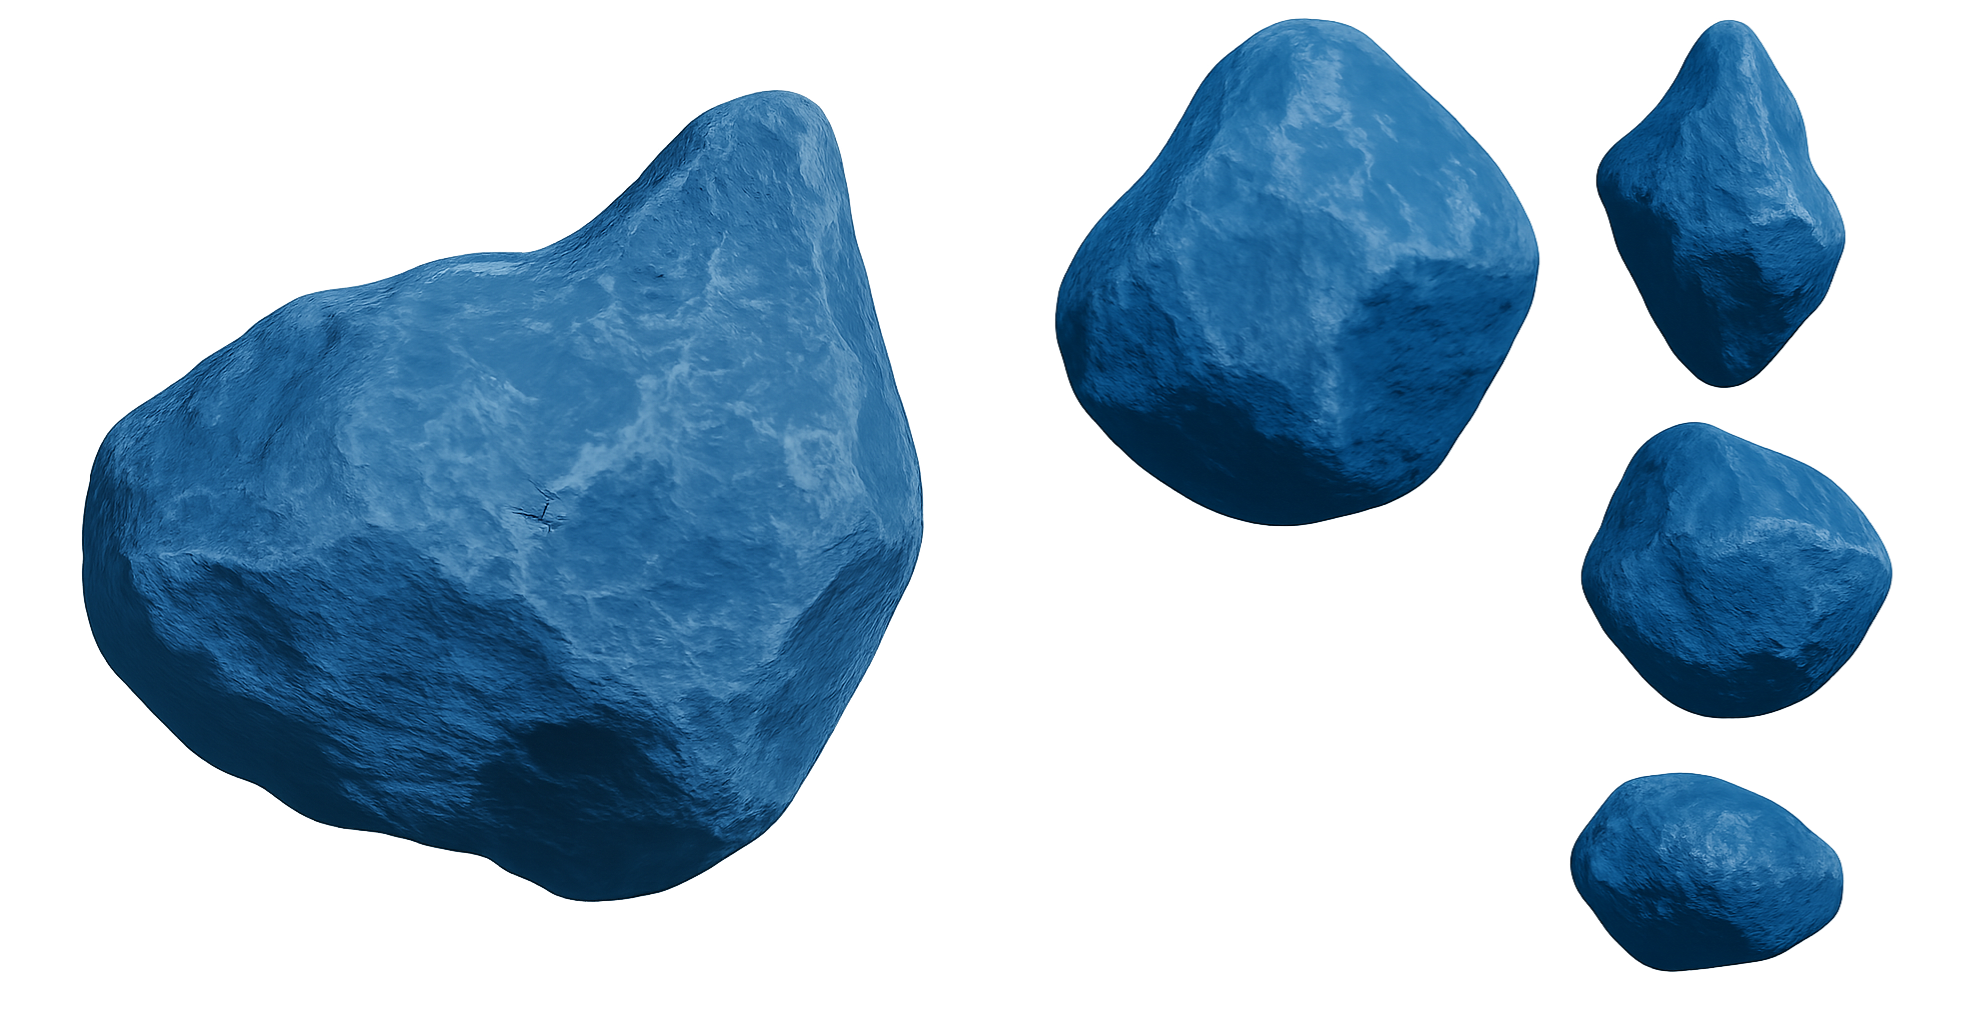
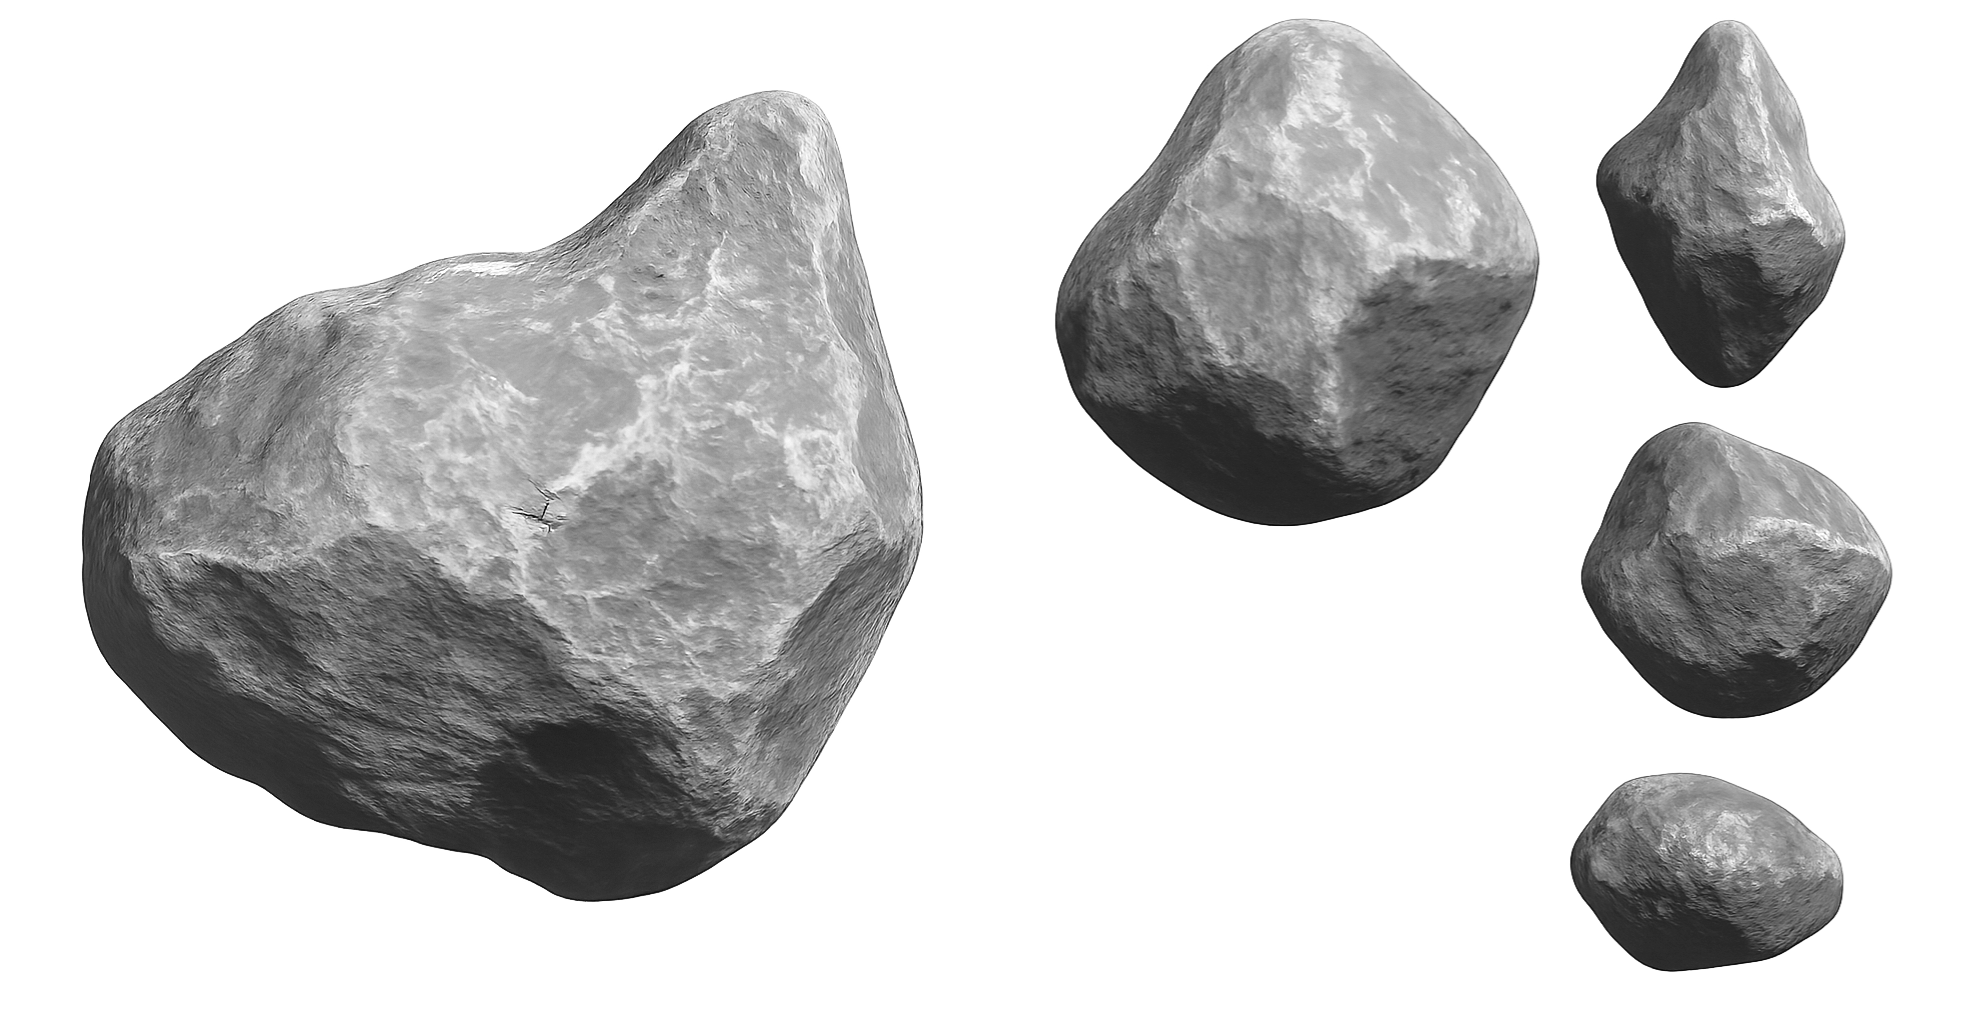
Spatial bodies

diff --git a/src/rendering/unified/UnifiedSceneRendererGL.ts b/src/rendering/unified/UnifiedSceneRendererGL.ts
@@ -272,7 +272,7 @@ export class UnifiedSceneRendererGL {
   render(
     dt: number, // Seconds
     camera: Camera,
-    visibleLights: { soa: LightSOA, indices: Uint16Array, count: number },
+    visibleLights: { soa: LightSOA; indices: Uint16Array; count: number },
     sprites: SpriteRenderRequest[],
     particleSOAs: ParticleSOA[],
     lightningSegments: LightningSegment[],
@@ -321,17 +321,19 @@ export class UnifiedSceneRendererGL {
     gl.bindFramebuffer(gl.FRAMEBUFFER, this.sceneFramebuffer);
     this.planetPass.renderAll();
 
-    // === Render spatial bodies
-    this.spatialBodyPass.render(camera);
-
     // === Step 5: Generate light buffer (offscreen) ===
     const lightTexture = this.lightingPass.generateLightBuffer(visibleLights, camera);
 
-    // === Step 6: Render entities ===
-    gl.bindFramebuffer(gl.FRAMEBUFFER, this.sceneFramebuffer); // Light was rendering to offscreen FB, so we needed to rebind before going to the next
+    // === Step 6: Render spatial bodies (now light-aware) ===
+    // Must occur *after* light buffer generation so they can sample the light map
+    gl.bindFramebuffer(gl.FRAMEBUFFER, this.sceneFramebuffer);
+    this.spatialBodyPass.render(camera, lightTexture);
+
+    // === Step 7: Render entities (blocks, also light-aware) ===
+    gl.bindFramebuffer(gl.FRAMEBUFFER, this.sceneFramebuffer); // Rebind because lights rendered to offscreen FB
     this.entityPass.render(lightTexture, camera);
 
-    // === Step 7: Render batched sprites ===
+    // === Step 8: Render batched sprites ===
     for (const group of this.spriteGroups.values()) group.length = 0;
     this.clearedTextures.length = 0;
 
@@ -368,12 +370,12 @@ export class UnifiedSceneRendererGL {
       this.collisionBoxPass.render(camera);
     }
 
-    // === Step 8: Render particles ===
+    // === Step 9: Render particles ===
     for (const particleSOA of particleSOAs) {
       this.particlePass.renderSOA(particleSOA, camera);
     }
 
-    // === Step 9: Apply ripple/distortion FX (sceneTexture → sceneFramebufferFX)
+    // === Step 10: Apply ripple/distortion FX (sceneTexture → sceneFramebufferFX)
     const activeFx = this.specialFxController.getActiveFx();
     if (activeFx.length > 0) {
       this.specialFxPass.run(this.sceneTexture, activeFx, this.sceneFramebufferFX, this.cameraUBO);
@@ -387,23 +389,23 @@ export class UnifiedSceneRendererGL {
       this.sceneFramebufferFX = tmpFbo;
     }
 
-    // === Step 10: Render world-space FX passes (lightning, trails, etc.) ===
+    // === Step 11: Render world-space FX passes (lightning, trails, etc.) ===
     this.lightningPass.render(lightningSegments, camera);
     this.firePass.renderSOA(fireSOA, dt);
 
-    // === Step 11: Render damage text ===
+    // === Step 12: Render damage text ===
     if (this.playerSettings.isDamageTextEnabled()) {
       this.damageTextPass.renderSOA(damageTextSOA);
     }
 
-    // === Step 12: Apply screen-space post-process effects to default framebuffer ===
+    // === Step 13: Apply screen-space post-process effects to default framebuffer ===
     gl.bindFramebuffer(gl.FRAMEBUFFER, null);
     const effectChain = Array.from(this.postProcessEffects.entries()).map(
       ([effect, params]) => ({ effect, params })
     );
     this.postProcessPass.run(this.sceneTexture, effectChain);
 
-    // === Step 13: Composite additive lighting effects (e.g. halos) over final image ===
+    // === Step 14: Composite additive lighting effects (e.g. halos) over final image ===
     this.lightingPass.compositeLightingOverTarget(null);
   }
 

diff --git a/src/rendering/unified/passes/SpatialBodyPass.ts b/src/rendering/unified/passes/SpatialBodyPass.ts
@@ -35,6 +35,8 @@ export class SpatialBodyPass {
   // Shader uniform locations
   private readonly uAtlasLoc: WebGLUniformLocation | null;
   private readonly uAlphaLoc: WebGLUniformLocation | null;
+  private readonly uLightMapLoc: WebGLUniformLocation | null;
+  private readonly uAmbientLightLoc: WebGLUniformLocation | null;
 
   private instanceCount = 0;
   private dataIndex = 0;
@@ -61,9 +63,11 @@ export class SpatialBodyPass {
       });
     }
 
-    // Cache uniforms
+    // Cache uniforms (now includes lighting)
     this.uAtlasLoc = gl.getUniformLocation(this.program, 'uAtlas');
     this.uAlphaLoc = gl.getUniformLocation(this.program, 'uAlpha');
+    this.uLightMapLoc = gl.getUniformLocation(this.program, 'uLightMap');
+    this.uAmbientLightLoc = gl.getUniformLocation(this.program, 'uAmbientLight');
 
     // Bind the shared camera UBO (same as SpritePass / EntityPass)
     const blockIndex = gl.getUniformBlockIndex(this.program, 'CameraMatrices');
@@ -130,7 +134,7 @@ export class SpatialBodyPass {
     this.dataIndex += FLOATS_PER_INSTANCE;
   }
 
-  render(camera: Camera): void {
+  render(camera: Camera, lightTexture: WebGLTexture): void {
     const { gl, grid, store, scratchBuffer, loadedAtlases } = this;
 
     this.atlasGroupCounts.fill(0);
@@ -160,6 +164,17 @@ export class SpatialBodyPass {
     if (this.uAtlasLoc) gl.uniform1i(this.uAtlasLoc, 0);
     if (this.uAlphaLoc) gl.uniform1f(this.uAlphaLoc, DEFAULT_ALPHA);
 
+    // Bind lighting uniforms (light texture and ambient)
+    if (this.uLightMapLoc) {
+      gl.activeTexture(gl.TEXTURE1);
+      gl.bindTexture(gl.TEXTURE_2D, lightTexture);
+      gl.uniform1i(this.uLightMapLoc, 1);
+    }
+    if (this.uAmbientLightLoc) {
+      // Match EntityPass default for consistency
+      gl.uniform3f(this.uAmbientLightLoc, 0.55, 0.55, 0.55);
+    }
+
     // Draw each atlas group
     for (let atlasIndex = 0; atlasIndex < MAX_ATLASES; atlasIndex++) {
       const count = this.atlasGroupCounts[atlasIndex];
@@ -183,7 +198,6 @@ export class SpatialBodyPass {
       gl.bindBuffer(gl.ARRAY_BUFFER, this.instanceBuffer);
       gl.bufferSubData(gl.ARRAY_BUFFER, 0, this.uploadView, 0, this.dataIndex);
 
-      console.log(`Drawing: ${this.instanceCount} instances from atlas ${atlasIndex}, and ${visibleCount} visible bodies with ${count} in this atlas`);
       gl.drawArraysInstanced(gl.TRIANGLE_STRIP, 0, 4, this.instanceCount);
     }
 

diff --git a/src/game/spatialbodies/definitions/iceDefinitions.ts b/src/game/spatialbodies/definitions/iceDefinitions.ts
@@ -27,7 +27,7 @@ export const iceAsteroid03: SpatialBodyDefinition = {
 export const iceAsteroid01: SpatialBodyDefinition = {
   name: 'ice-01',
   atlasIndex: 0,
-  baseScale: 1110.2,
+  baseScale: 512,
   uMin: 0.796541,
   vMin: 0.001938,
   uMax: 0.998983,
@@ -37,7 +37,7 @@ export const iceAsteroid01: SpatialBodyDefinition = {
 export const iceAsteroid00: SpatialBodyDefinition = {
   name: 'ice-00',
   atlasIndex: 0,
-  baseScale: 1110.2,
+  baseScale: 512,
   uMin: 0.796541,
   vMin: 0.391473,
   uMax: 0.968973,
@@ -47,7 +47,7 @@ export const iceAsteroid00: SpatialBodyDefinition = {
 export const iceAsteroid02: SpatialBodyDefinition = {
   name: 'ice-02',
   atlasIndex: 0,
-  baseScale: 1110.2,
+  baseScale: 512,
   uMin: 0.796541,
   vMin: 0.723837,
   uMax: 0.940488,

diff --git a/src/game/ship/factories/ShipFactory.ts b/src/game/ship/factories/ShipFactory.ts
@@ -140,17 +140,17 @@ export class ShipFactory {
     ship.setInitialMass(ship.getTotalMass());
 
     const auraLightColor = isPlayerShip ? '#ADD8E6' : '#ff0000';
+    const auraLightIntensity = isPlayerShip ? 1.8 : 1.4;
+    const auraLightRadius = isPlayerShip ? 96 : 96;
     const auraLightOptions: AuraLightOptions = {
       color: auraLightColor,
-      radius: 96,
-      intensity: 0.8
+      radius: auraLightRadius,
+      intensity: auraLightIntensity,
     };
 
     if (!createInstantly) {
       this.shipConstructionAnimator.animateShipConstruction(ship, auraLightOptions);
     }
-
-    // this.shipConstructionAnimator.animateShipConstruction(ship, auraLightOptions);
 
     return { ship, controller, emitter, movement, weapons, utility };
   }

diff --git a/src/rendering/unified/passes/EntityPass.ts b/src/rendering/unified/passes/EntityPass.ts
@@ -30,7 +30,7 @@ export class EntityPass {
   private maxBlocks: number = MAX_BLOCKS_GL;
   private instanceBufferSize: number = INSTANCE_BUFFER_SIZE;
 
-  private ambientLight: [number, number, number] = [3.2, 3.2, 3.2];
+  private ambientLight: [number, number, number] = [2.2, 2.2, 2.2];
 
   // ─── GC-Optimized Reusable Buffers ─────────────────────────────────────
   private readonly instanceData = new Float32Array(INSTANCE_BUFFER_SIZE);

diff --git a/src/game/ship/Ship.ts b/src/game/ship/Ship.ts
@@ -360,7 +360,7 @@ export class Ship extends CompositeBlockObject {
   }
 
   // Light
-  public registerAuraLight(color: string = '#ffffff', radius: number = 64, intensity: number = 1.25): void {
+  public registerAuraLight(color: string = '#ffffff', radius: number = 128, intensity: number = 2.00): void {
     if (!LightingOrchestrator.hasInstance()) return;
 
     if (this.lightAuraId) return;

diff --git a/src/game/blocks/BlockRegistry.ts b/src/game/blocks/BlockRegistry.ts
@@ -285,7 +285,10 @@ const blockTypes: Record<string, BlockType> = {
     subcategory: 'turret',
     dropRate: 0.2,
     placementSound: 'assets/sounds/sfx/ship/attach_00.wav',
-    metatags: ['turret']
+    metatags: ['turret'],
+    lightColor: '#ffffff',
+    lightRadius: 64,
+    lightIntensity: 2.0,
   },
   turret2: {
     id: 'turret2',

diff --git a/src/game/interfaces/types/BlockType.ts b/src/game/interfaces/types/BlockType.ts
@@ -20,6 +20,9 @@ export interface BlockType {
   placementSound?: string;
   metatags?: string[];
   blockDropOverride?: string;
+  lightColor?: string;
+  lightRadius?: number;
+  lightIntensity?: number;
 }
 
 // src/game/blocks/constants/BlockCategories.ts
